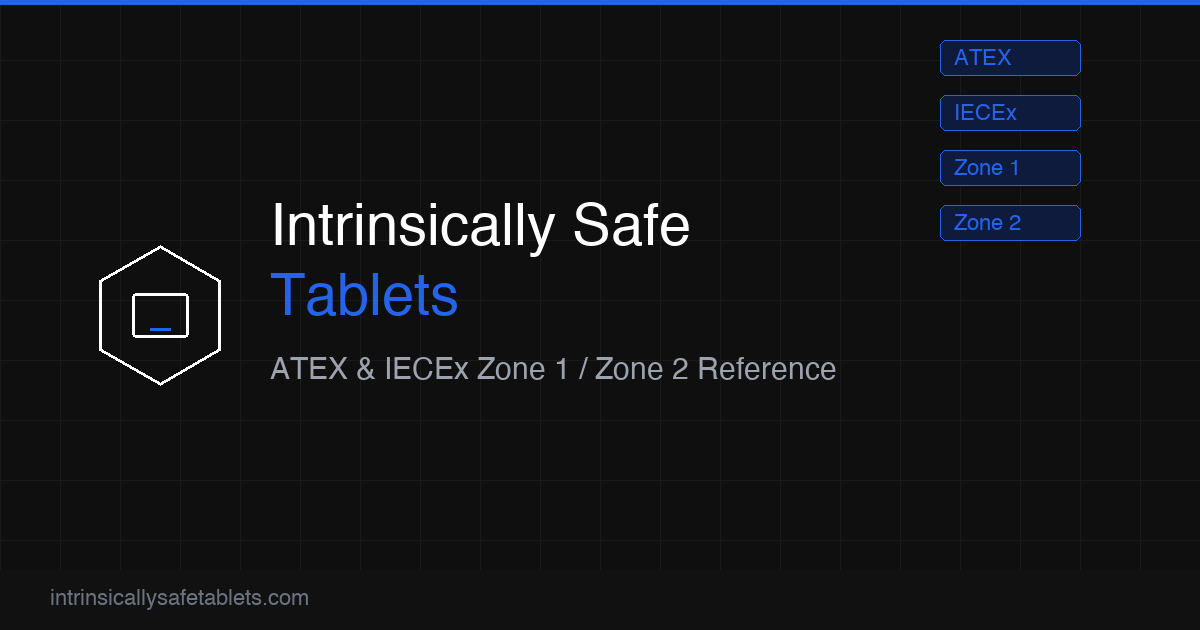
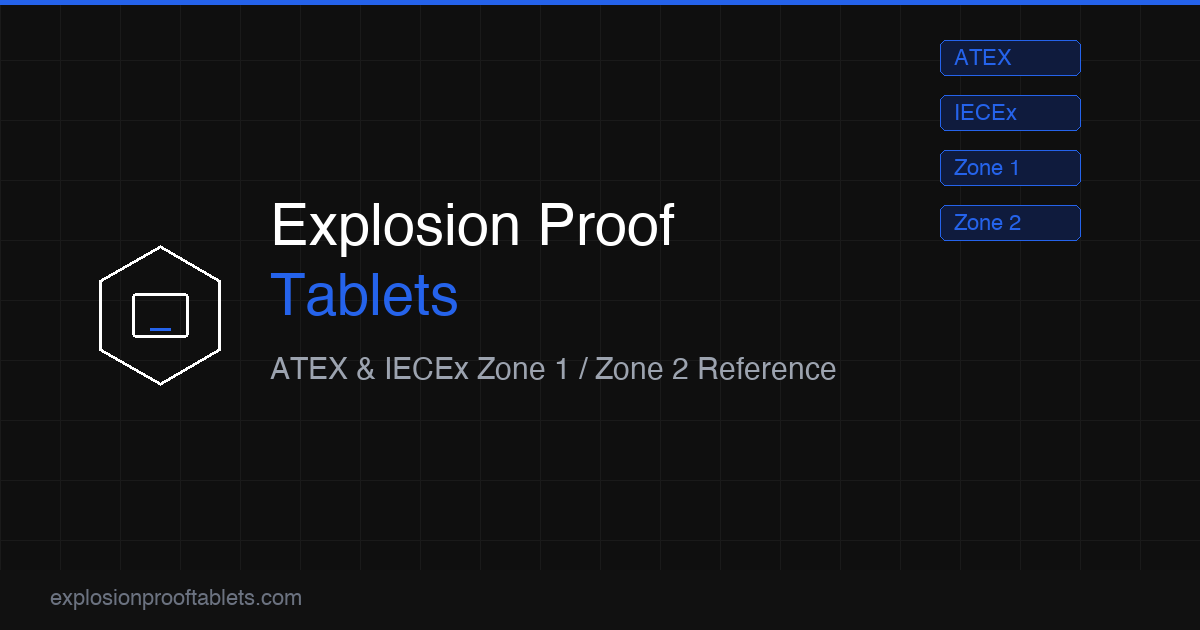
Rebrand to explosionprooftablets.com

Changed region(s): [[0.2158, 0.3016, 0.5858, 0.4222], [0.0308, 0.9349, 0.2467, 0.9651]]

diff --git a/index.html b/index.html
@@ -5,19 +5,19 @@
 <meta name="viewport" content="width=device-width,initial-scale=1" />
 <title>Intrinsically Safe Tablets — ATEX &amp; IECEx Zone 1 Certified</title>
 <meta name="description" content="Compare ATEX and IECEx certified intrinsically safe tablets for Zone 1 and Zone 2 hazardous areas — rugged Android, Windows, and iPad Ex-case solutions." />
-<link rel="canonical" href="https://intrinsicallysafetablets.com/" />
+<link rel="canonical" href="https://explosionprooftablets.com/" />
 <meta property="og:type" content="website" />
 <meta property="og:title" content="Intrinsically Safe Tablets — ATEX &amp; IECEx Zone 1 Certified" />
 <meta property="og:description" content="Compare ATEX and IECEx certified intrinsically safe tablets for Zone 1 and Zone 2 hazardous areas." />
-<meta property="og:url" content="https://intrinsicallysafetablets.com/" />
-<meta property="og:site_name" content="intrinsicallysafetablets.com" />
-<meta property="og:image" content="https://intrinsicallysafetablets.com/og-image.png" />
+<meta property="og:url" content="https://explosionprooftablets.com/" />
+<meta property="og:site_name" content="explosionprooftablets.com" />
+<meta property="og:image" content="https://explosionprooftablets.com/og-image.png" />
 <meta property="og:image:width" content="1200" />
 <meta property="og:image:height" content="630" />
 <meta name="twitter:card" content="summary_large_image" />
 <meta name="twitter:title" content="Intrinsically Safe Tablets — ATEX &amp; IECEx Zone 1 Certified" />
 <meta name="twitter:description" content="Compare ATEX and IECEx certified intrinsically safe tablets for Zone 1 and Zone 2 hazardous areas." />
-<meta property="twitter:image" content="https://intrinsicallysafetablets.com/og-image.png" />
+<meta property="twitter:image" content="https://explosionprooftablets.com/og-image.png" />
 
 <!-- GA4 placeholder -->
 <!-- <script async src="https://www.googletagmanager.com/gtag/js?id=G-XXXXXXXXXX"></script>
@@ -35,8 +35,8 @@
 {
   "@context": "https://schema.org",
   "@type": "WebSite",
-  "name": "intrinsicallysafetablets.com",
-  "url": "https://intrinsicallysafetablets.com/",
+  "name": "explosionprooftablets.com",
+  "url": "https://explosionprooftablets.com/",
   "description": "Engineering reference for ATEX and IECEx certified intrinsically safe tablets and hazardous area mobile solutions."
 }
 </script>
@@ -107,7 +107,7 @@
         <rect x="8" y="10" width="16" height="12" rx="1.8" stroke="#1a1a1a" stroke-width="1.6"/>
         <line x1="14" y1="19" x2="18" y2="19" stroke="#2563eb" stroke-width="1.6" stroke-linecap="round"/>
       </svg>
-      <span class="text-[15px] font-semibold tracking-tight">intrinsicallysafetablets<span class="text-[color:var(--ash)]">.com</span></span>
+      <span class="text-[15px] font-semibold tracking-tight">explosionprooftablets<span class="text-[color:var(--ash)]">.com</span></span>
     </a>
     <nav class="hidden md:flex items-center gap-6 text-[14px] text-[color:var(--graphite)]">
       <a href="#solutions" class="hover:text-[color:var(--ink)]">Solutions</a>
@@ -253,7 +253,7 @@
         <textarea name="message" placeholder="Message" rows="4" required class="form-input"></textarea>
         <input type="text" name="_gotcha" style="display:none" />
         <input type="hidden" name="_captcha" value="false" />
-        <input type="hidden" name="_subject" value="intrinsicallysafetablets.com — New contact" />
+        <input type="hidden" name="_subject" value="explosionprooftablets.com — New contact" />
         <button type="submit" class="btn btn-pri w-full justify-center">Send message</button>
       </form>
     </div>
@@ -273,7 +273,7 @@
             <rect x="8" y="10" width="16" height="12" rx="1.8" stroke="#ffffff" stroke-width="1.6"/>
             <line x1="14" y1="19" x2="18" y2="19" stroke="#2563eb" stroke-width="1.6" stroke-linecap="round"/>
           </svg>
-          <span class="text-[15px] font-semibold">intrinsicallysafetablets<span class="text-[#888]">.com</span></span>
+          <span class="text-[15px] font-semibold">explosionprooftablets<span class="text-[#888]">.com</span></span>
         </div>
         <p class="text-[14px] text-[#9ca3af] leading-relaxed max-w-[360px]">
           Engineering reference for ATEX and IECEx certified tablets. Specs verified against manufacturer certificates.
@@ -295,7 +295,7 @@
       </div>
     </div>
     <div class="border-t border-[#222] mt-12 pt-6 flex flex-wrap gap-4 justify-between text-[12px] text-[#666]">
-      <span>© 2026 intrinsicallysafetablets.com</span>
+      <span>© 2026 explosionprooftablets.com</span>
       <span>Engineering reference — not a safety certificate.</span>
     </div>
   </div>

diff --git a/what-is-an-intrinsically-safe-tablet.html b/what-is-an-intrinsically-safe-tablet.html
@@ -5,17 +5,17 @@
   <meta name="viewport" content="width=device-width, initial-scale=1.0" />
   <title>What Is an Intrinsically Safe Tablet? — ATEX &amp; IECEx Explained</title>
   <meta name="description" content="What makes a tablet intrinsically safe? Learn how ATEX and IECEx certification works for tablets, Zone 1 vs Zone 2, and why standard iPads are banned in hazardous areas." />
-  <link rel="canonical" href="https://intrinsicallysafetablets.com/what-is-an-intrinsically-safe-tablet.html" />
+  <link rel="canonical" href="https://explosionprooftablets.com/what-is-an-intrinsically-safe-tablet.html" />
   <meta property="og:type" content="article" />
   <meta property="og:title" content="What Is an Intrinsically Safe Tablet?" />
   <meta property="og:description" content="How ATEX and IECEx certification works for tablets in hazardous areas. Zone 1 vs Zone 2, Android vs Windows." />
-  <meta property="og:url" content="https://intrinsicallysafetablets.com/what-is-an-intrinsically-safe-tablet.html" />
-  <meta property="og:site_name" content="intrinsicallysafetablets.com" />
-  <meta property="og:image" content="https://intrinsicallysafetablets.com/og-image.png" />
+  <meta property="og:url" content="https://explosionprooftablets.com/what-is-an-intrinsically-safe-tablet.html" />
+  <meta property="og:site_name" content="explosionprooftablets.com" />
+  <meta property="og:image" content="https://explosionprooftablets.com/og-image.png" />
   <meta property="og:image:width" content="1200" />
   <meta property="og:image:height" content="630" />
   <meta name="twitter:card" content="summary_large_image" />
-  <meta property="twitter:image" content="https://intrinsicallysafetablets.com/og-image.png" />
+  <meta property="twitter:image" content="https://explosionprooftablets.com/og-image.png" />
   <meta name="twitter:title" content="What Is an Intrinsically Safe Tablet?" />
   <meta name="twitter:description" content="How ATEX and IECEx certification works for tablets in hazardous areas." />
 
@@ -49,13 +49,13 @@
     "@type": "Article",
     "headline": "What Is an Intrinsically Safe Tablet?",
     "description": "How ATEX and IECEx certification works for tablets in hazardous areas.",
-    "url": "https://intrinsicallysafetablets.com/what-is-an-intrinsically-safe-tablet.html",
+    "url": "https://explosionprooftablets.com/what-is-an-intrinsically-safe-tablet.html",
     "datePublished": "2026-04-18",
     "dateModified": "2026-04-18",
     "publisher": {
       "@type": "Organization",
-      "name": "intrinsicallysafetablets.com",
-      "url": "https://intrinsicallysafetablets.com"
+      "name": "explosionprooftablets.com",
+      "url": "https://explosionprooftablets.com"
     }
   }
   </script>
@@ -105,7 +105,7 @@
 
   <header class="border-b border-gray-100 sticky top-0 bg-white/95 backdrop-blur z-30">
     <div class="max-w-3xl mx-auto px-6 py-4 flex items-center justify-between">
-      <a href="/" class="font-semibold text-sm">intrinsicallysafetablets<span class="text-gray-400">.com</span></a>
+      <a href="/" class="font-semibold text-sm">explosionprooftablets<span class="text-gray-400">.com</span></a>
       <nav class="hidden md:flex items-center gap-5 text-sm text-gray-500">
         <a href="/" class="hover:text-gray-900">Home</a>
         <a href="/best-atex-tablets-2026.html" class="hover:text-gray-900">Best Tablets</a>
@@ -251,7 +251,7 @@
   <footer class="bg-gray-900 text-gray-400 mt-16">
     <div class="max-w-3xl mx-auto px-6 py-10">
       <div class="flex flex-wrap items-center justify-between gap-4 text-xs">
-        <div>© 2026 · intrinsicallysafetablets.com</div>
+        <div>© 2026 · explosionprooftablets.com</div>
         <div>Engineering reference — not a safety certificate.</div>
       </div>
     </div>

diff --git a/best-atex-tablets-2026.html b/best-atex-tablets-2026.html
@@ -5,17 +5,17 @@
   <meta name="viewport" content="width=device-width, initial-scale=1.0" />
   <title>5 Best ATEX Zone 1 Tablets in 2026 — Compared</title>
   <meta name="description" content="The 5 best ATEX Zone 1 certified tablets in 2026. Covers Android and Windows options for oil &amp; gas, chemical, and offshore inspection workflows." />
-  <link rel="canonical" href="https://intrinsicallysafetablets.com/best-atex-tablets-2026.html" />
+  <link rel="canonical" href="https://explosionprooftablets.com/best-atex-tablets-2026.html" />
   <meta property="og:type" content="article" />
   <meta property="og:title" content="5 Best ATEX Zone 1 Tablets in 2026 — Compared" />
   <meta property="og:description" content="The 5 best ATEX Zone 1 certified tablets in 2026. Android and Windows options for hazardous area inspections." />
-  <meta property="og:url" content="https://intrinsicallysafetablets.com/best-atex-tablets-2026.html" />
-  <meta property="og:site_name" content="intrinsicallysafetablets.com" />
-  <meta property="og:image" content="https://intrinsicallysafetablets.com/og-image.png" />
+  <meta property="og:url" content="https://explosionprooftablets.com/best-atex-tablets-2026.html" />
+  <meta property="og:site_name" content="explosionprooftablets.com" />
+  <meta property="og:image" content="https://explosionprooftablets.com/og-image.png" />
   <meta property="og:image:width" content="1200" />
   <meta property="og:image:height" content="630" />
   <meta name="twitter:card" content="summary_large_image" />
-  <meta property="twitter:image" content="https://intrinsicallysafetablets.com/og-image.png" />
+  <meta property="twitter:image" content="https://explosionprooftablets.com/og-image.png" />
   <meta name="twitter:title" content="5 Best ATEX Zone 1 Tablets in 2026 — Compared" />
   <meta name="twitter:description" content="The 5 best ATEX Zone 1 certified tablets in 2026 for hazardous areas." />
 
@@ -36,13 +36,13 @@
     "@type": "Article",
     "headline": "5 Best ATEX Zone 1 Tablets in 2026",
     "description": "The 5 best ATEX Zone 1 certified tablets in 2026 for hazardous area inspections.",
-    "url": "https://intrinsicallysafetablets.com/best-atex-tablets-2026.html",
+    "url": "https://explosionprooftablets.com/best-atex-tablets-2026.html",
     "datePublished": "2026-04-18",
     "dateModified": "2026-04-18",
     "publisher": {
       "@type": "Organization",
-      "name": "intrinsicallysafetablets.com",
-      "url": "https://intrinsicallysafetablets.com"
+      "name": "explosionprooftablets.com",
+      "url": "https://explosionprooftablets.com"
     },
     "mainEntity": {
       "@type": "ItemList",
@@ -73,7 +73,7 @@
 
   <header class="border-b border-zinc-800 sticky top-0 bg-zinc-950/90 backdrop-blur z-30">
     <div class="max-w-3xl mx-auto px-6 py-4 flex items-center justify-between">
-      <a href="/" class="font-semibold text-sm">intrinsicallysafetablets<span class="text-zinc-500">.com</span></a>
+      <a href="/" class="font-semibold text-sm">explosionprooftablets<span class="text-zinc-500">.com</span></a>
       <nav class="hidden md:flex items-center gap-5 text-sm text-zinc-400">
         <a href="/" class="hover:text-zinc-100">Home</a>
         <a href="#" class="text-zinc-100 font-medium">Best Tablets</a>
@@ -222,7 +222,7 @@
 
   <footer class="border-t border-zinc-800 mt-16">
     <div class="max-w-3xl mx-auto px-6 py-8 flex flex-wrap items-center justify-between gap-4 text-xs text-zinc-600">
-      <div>© 2026 · intrinsicallysafetablets.com</div>
+      <div>© 2026 · explosionprooftablets.com</div>
       <div>Engineering reference — not a safety certificate.</div>
     </div>
   </footer>
